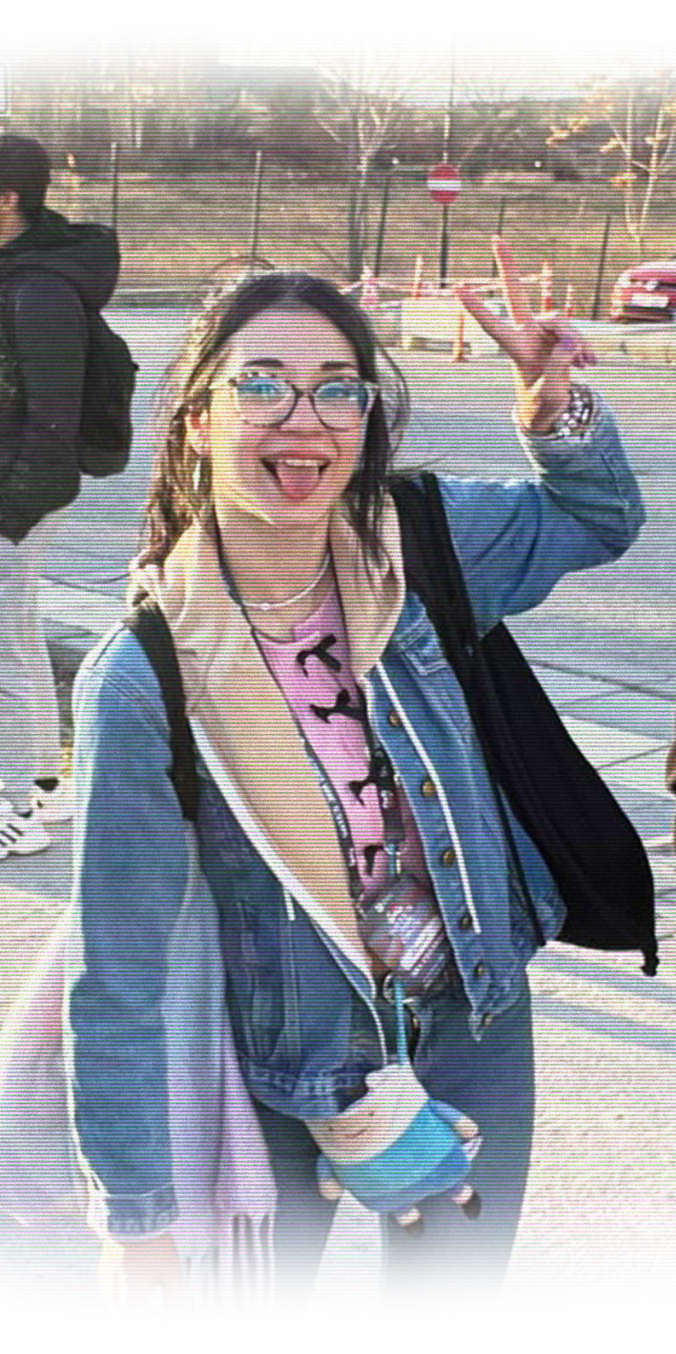
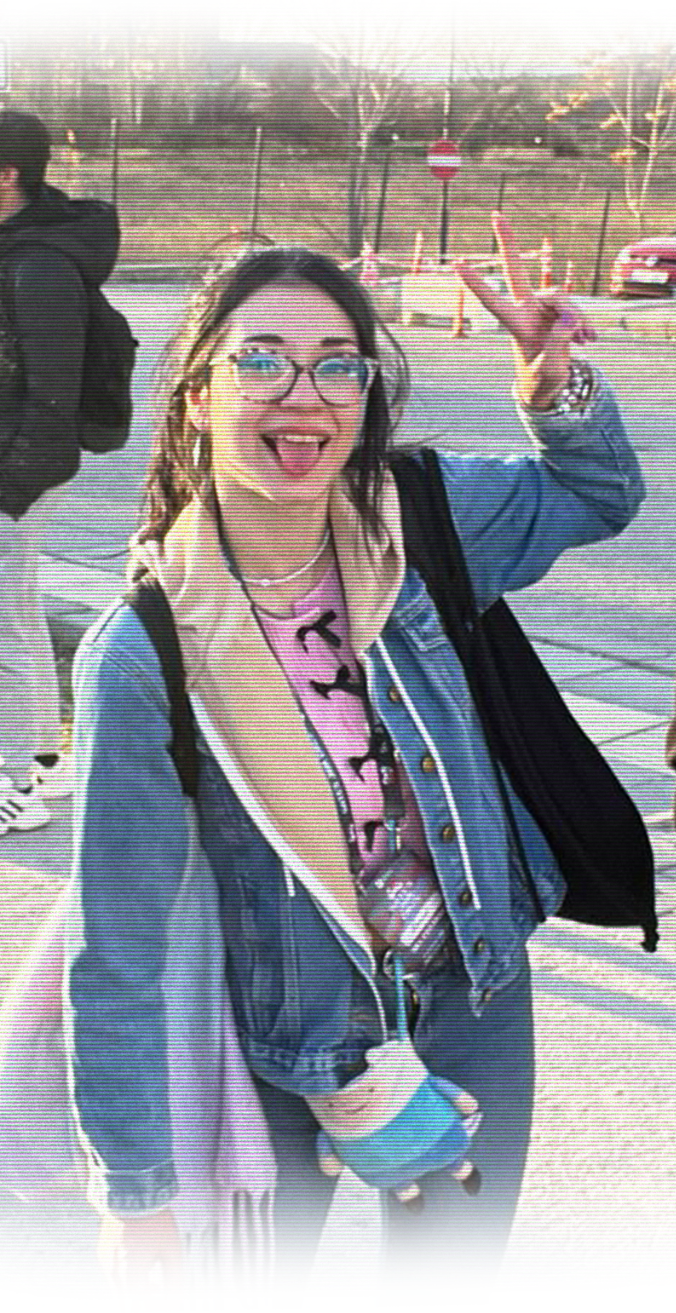
corporate dialect added

diff --git a/dialect.html b/dialect.html
@@ -1,0 +1,138 @@
+<!DOCTYPE html>
+<html lang="en">
+<head>
+  <meta charset="UTF-8">
+  <meta name="viewport" content="width=device-width, initial-scale=1.0">
+  <title>The Corporate Dialect | Hazal İnce</title>
+  
+  <link rel="stylesheet" href="style.css">
+  <link rel="stylesheet" href="project-page.css">
+
+  <link rel="icon" type="image/png" href="images/my_favicon.png">
+
+  <link rel="preconnect" href="https://fonts.googleapis.com">
+  <link rel="preconnect" href="https://fonts.gstatic.com" crossorigin>
+  <link rel="preload" href="https://fonts.googleapis.com/css2?family=Oxanium:wght@400;600;700;800&display=block" as="style">
+  <link href="https://fonts.googleapis.com/css2?family=Oxanium:wght@400;600;700;800&display=block" rel="stylesheet">
+  <link rel="stylesheet" href="https://cdnjs.cloudflare.com/ajax/libs/font-awesome/6.5.0/css/all.min.css">
+</head>
+<body>
+
+  <header class="navbar">
+    <div class="site-container nav-inner">
+      <a href="index.html" class="brand brand-link">
+        <div class="brand-name">Hazal İnce</div>
+        <div class="brand-subtitle">Portfolio Website</div>
+      </a>
+      <nav class="nav-links">
+        <a href="index.html#missions" class="nav-link">MISSIONS</a>
+        <a href="player.html" class="nav-link">PLAYER</a>
+        <a href="map.html" class="nav-link">MAP</a>
+      </nav>
+    </div>
+  </header>
+
+  <main class="project-page-layout site-container">
+
+    <section class="project-hero">
+      <div class="project-header-meta">
+        <span class="project-category">MACHINIMA MOVIE</span>
+      </div>
+      
+      <h1 class="project-main-title">THE CORPORATE DIALECT</h1>
+      
+      <div class="project-hero-natural">
+        <img src="images/dialect_hero.jpg" alt="Project Cover">
+      </div>
+    </section>
+
+    <section class="project-overview-grid">
+      <aside class="project-specs">
+        <div class="spec-item">
+          <span class="spec-label">Project Type</span>
+          <span class="spec-value">Machinima Short Movie</span>
+          <span class="spec-value">EMJM Digicrea | Université Jean Monnet</span>
+        </div>
+        <div class="spec-item">
+          <span class="spec-label">Date</span>
+          <span class="spec-value">November 2026</span>
+        </div>
+        <div class="spec-item">
+          <span class="spec-label">Location</span>
+          <span class="spec-value">Saint-Étienne, France</span>
+        </div>
+        <div class="spec-item">
+          <span class="spec-label">Developers</span>
+          <span class="spec-value">Anis Akkor</span>
+          <span class="spec-value">Jimeng YANG</span>
+          <span class="spec-value">Hazal Berivan İnce</span>
+        </div>
+      </aside>
+
+      <div class="project-narrative">
+        <h2 class="section-heading">ABOUT THE PROJECT</h2>
+        <p class="narrative-text">
+          Dystopian video games imagine worlds run by corporations: total surveillance, private armies, and human life reduced to data. “The Corporate Dialect” places visuals from those worlds over real interview recordings from today’s tech executives. Heard together, the fiction stops sounding like exaggeration and starts sounding like a shared language.
+        </p>
+      </div>
+    </section>
+
+    <section class="project-gallery-section">
+      <div class="gallery-grid">
+        
+        <figure class="gallery-item">
+          <div class="gallery-media-box">
+            <iframe 
+              src="https://www.youtube.com/embed/lsnFgTXnqCg"
+              title="The Corporate Dialect Video" 
+              allow="accelerometer; autoplay; clipboard-write; encrypted-media; gyroscope; picture-in-picture" 
+              allowfullscreen>
+            </iframe>
+          </div>
+        </figure>
+          
+        <figure class="gallery-item">
+          <figcaption class="media-caption" style="color: #ffffffcc;"><strong>Concept:</strong></figcaption>
+          <figcaption class="media-caption" style="color: #ffffffb6;">Game writers build dystopian megacorporations out of a recognizable vocabulary: “optimizing,” “scaling,” “disruption,” “safety,” “the future of humanity.” We usually treat this as satire, a heightened version of how companies talk. This project asks whether it is heightened at all.</figcaption>
+          <figcaption class="media-caption" style="color: #ffffffb6;">The film has no scripted dialogue. Every spoken word comes from real interviews with leaders of contemporary companies. Over those voices, in-engine footage shows what those words resemble: billboard-lit megacities, drone patrols, debt economies, and enhanced workers. We never tell the audience what to conclude. The tension comes from the gap, or the lack of one, between a confident voice and an unsettling image.</figcaption>
+          <figcaption class="media-caption" style="color: #ffffffb6;">The title refers to the idea that corporate and tech-executive speech works as its own dialect, with its own grammar of inevitability and abstraction. The film treats it as something to be listened to closely.</figcaption>
+        </figure>
+
+        <figure class="gallery-item">
+          <figcaption class="media-caption" style="color: #ffffffcc;"><strong>Framework:</strong></figcaption>
+          <figcaption class="media-caption" style="color: #ffffffb6;"><strong style="color: #ffffffcc;">•	Source game:</strong> Cyberpunk 2077 (2020, CD Projekt RED), chosen for how clearly it depicts corporate or technocratic power.</figcaption>
+          <figcaption class="media-caption" style="color: #ffffffb6;"><strong style="color: #ffffffcc;">•	Capture:</strong> In-engine recordings using photo mode, free camera, mods; with deliberate framing, camera and scene arrangement.</figcaption>
+          <figcaption class="media-caption" style="color: #ffffffb6;"><strong style="color: #ffffffcc;">•	Audio approach:</strong> All audio is used in context for criticism, commentary, and education. Excerpts are chosen so the speaker’s meaning is preserved, with no references that change what someone said or invent statements. The film’s argument comes from juxtaposition and editing choices, and our documentation will point out our reasoning, since any edit involves selection.</figcaption>
+        </figure>
+
+
+
+      </div>
+    </section>
+
+    <nav class="project-bottom-nav">
+      <div class="bottom-nav-group bottom-nav-left">
+      </div>
+      <div class="bottom-nav-group bottom-nav-right">
+        <a href="mate.html" class="bottom-nav-link">Next in Games &amp; Cinema <span class="nav-arrow single-arrow right-arrow"></span>
+        </a>
+        <a href="monsanto.html" class="bottom-nav-link">Next in All <span class="nav-arrow double-arrow right-arrow"></span>
+        </a>
+      </div>
+    </nav>
+
+    
+  </main>
+
+  <footer class="footer">
+    <div class="site-container footer-inner">
+      <div class="footer-text">Portfolio Website . Hazal Ince</div>
+      <div class="social-links">
+        <a href="https://www.linkedin.com/in/hbince" target="_blank" class="social-icon"><i class="fa-brands fa-linkedin-in"></i></a>
+        <a href="https://www.artstation.com/hzlprime" target="_blank" class="social-icon"><i class="fa-brands fa-artstation"></i></a>
+      </div>
+    </div>
+  </footer>
+
+</body>
+</html>

diff --git a/monsanto.html b/monsanto.html
@@ -144,6 +144,23 @@
         </a>
       </div>
     </nav>
+
+    <nav class="project-bottom-nav">
+      <div class="bottom-nav-group bottom-nav-left">
+        <a href="dialect.html" class="bottom-nav-link">
+          <span class="nav-arrow double-arrow left-arrow"></span> Previous in All
+        </a>
+      </div>
+      <div class="bottom-nav-group bottom-nav-right">
+        <a href="mindescape.html" class="bottom-nav-link">Next in Interactive Design <span class="nav-arrow single-arrow right-arrow"></span>
+        </a>
+        <a href="mate.html" class="bottom-nav-link">Next in All <span class="nav-arrow double-arrow right-arrow"></span>
+        </a>
+      </div>
+    </nav>
+
+
+
   </main>
 
   <footer class="footer">

diff --git a/mate.html b/mate.html
@@ -81,8 +81,12 @@
       </div>
     </section>
 
+  
     <nav class="project-bottom-nav">
       <div class="bottom-nav-group bottom-nav-left">
+        <a href="dialect.html" class="bottom-nav-link">
+          <span class="nav-arrow single-arrow left-arrow"></span> Previous in Games &amp; Cinema
+        </a>
         <a href="monsanto.html" class="bottom-nav-link">
           <span class="nav-arrow double-arrow left-arrow"></span> Previous in All
         </a>
@@ -94,6 +98,7 @@
         </a>
       </div>
     </nav>
+
   </main>
 
   <footer class="footer">

diff --git a/index.html b/index.html
@@ -56,6 +56,13 @@
         
         <!-- COLUMN 1: Games & Cinema -->
         <div class="category-column">
+          <a href="dialect.html" class="project-card">
+            <div class="project-img-wrapper">
+              <img src="images/dialect_thumb.jpg" alt="The Corporate Dialect" class="project-img">
+            </div>
+          </a>
+
+
           <a href="mate.html" class="project-card">
             <div class="project-img-wrapper">
               <img src="images/mate_thumb.jpg" alt="Mate'Morphosis" class="project-img">
